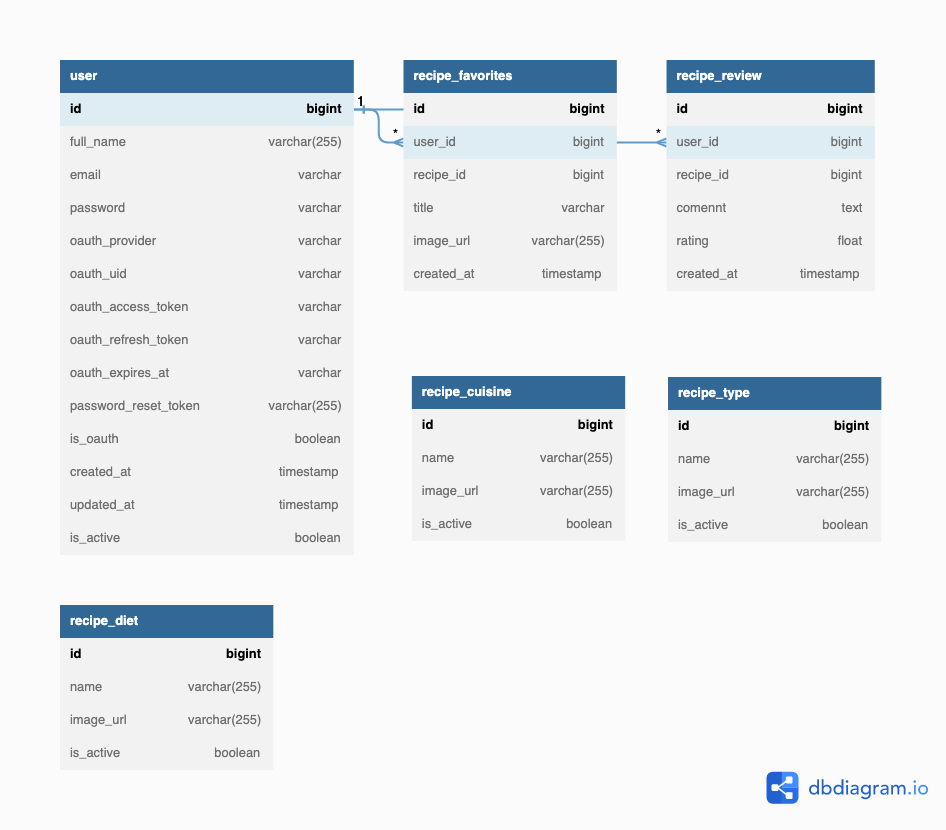
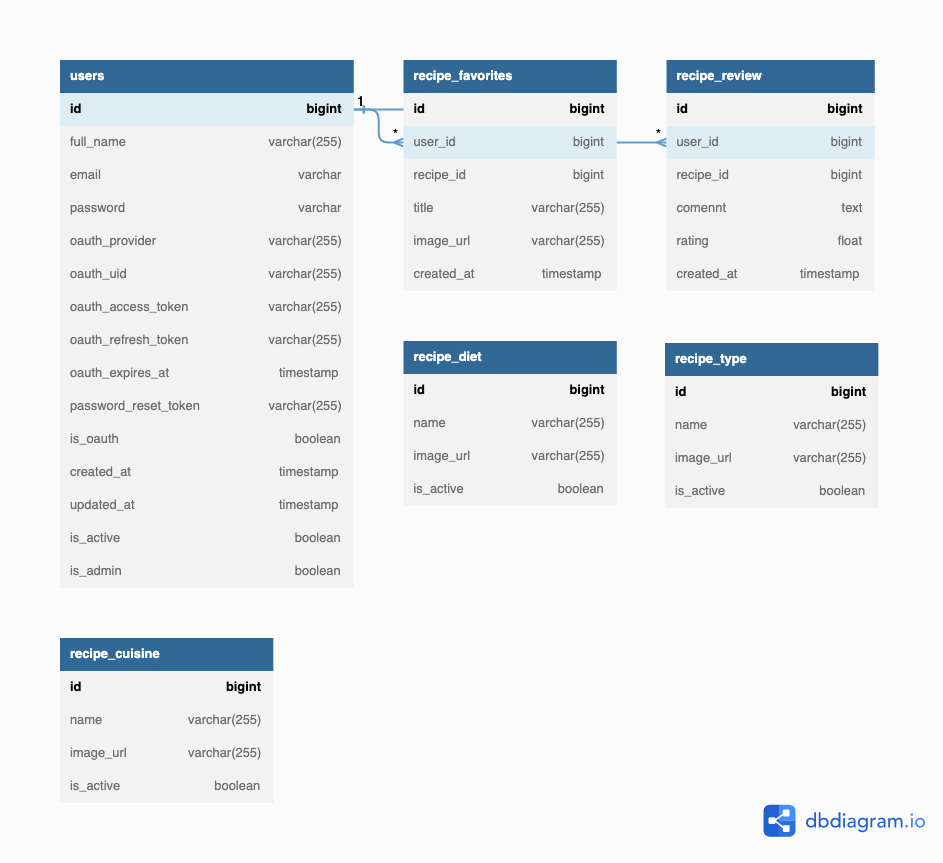
setting the application

diff --git a/app/templates/base.html b/app/templates/base.html
@@ -1,0 +1,68 @@
+<!DOCTYPE html>
+<html lang="en">
+<head>
+    <meta charset="UTF-8">
+    <meta http-equiv="X-UA-Compatible" content="IE=edge">
+    <meta name="viewport" content="width=device-width, initial-scale=1.0">
+    <link rel="apple-touch-icon" sizes="152x152" href="../static/images/apple-touch-icon.png">
+    <link rel="icon" type="image/png" sizes="32x32" href="../static/images/favicon-32x32.png">
+    <link rel="icon" type="image/png" sizes="16x16" href="../static/images/favicon-16x16.png">
+    <link rel="manifest" href="../static/images/site.webmanifest">
+    <link rel="mask-icon" href="../static/images/safari-pinned-tab.svg" color="#e99d19">
+    <meta name="msapplication-TileColor" content="#e99d19">
+    <meta name="theme-color" content="#ffffff">
+ 
+<meta charset="UTF-8">
+<title>{% block title %} {% endblock %} - Quick Recipe</title>
+    
+    <style>
+        h2 {
+            width: 100%;
+        }
+
+        .title {
+            margin: 5px;
+            width: 100%;
+        }
+
+        .content {
+            margin: 5px;
+            width: 100%;
+            display: flex;
+            flex-direction: row;
+            flex-wrap: wrap;
+        }
+
+        .post {
+            flex: 20%;
+            padding: 10px;
+            margin: 5px;
+            background-color: #f3f3f3;
+            inline-size: 100%;
+        }
+
+        .title a {
+            color: #00a36f;
+            text-decoration: none;
+        }
+
+        nav a {
+            color: #d64161;
+            font-size: 3em;
+            margin-left: 50px;
+            text-decoration: none;
+        }
+
+    </style>
+</head>
+<body>
+    <nav>
+        <a href="{{ url_for('main.index') }}">Home </a>
+        
+    </nav>
+    <hr>
+    <div class="content">
+        {% block content %} {% endblock %}
+    </div>
+</body>
+</html>

diff --git a/app/templates/index.html b/app/templates/index.html
@@ -1,0 +1,9 @@
+{% extends 'base.html' %}
+
+{% block content %}
+    <span class="title"><h1>{% block title %} Home {% endblock %}</h1></span>
+    <div class="content">
+        <img alt="" src="../static/images/quick-recipe-logo.png">
+        <h2>This is the main Flask blueprint</h2>
+    </div>
+{% endblock %}

diff --git a/app/templates/auth/register.html b/app/templates/auth/register.html
@@ -1,0 +1,1 @@
+<h1>Register</h1>

diff --git a/app/templates/auth/login.html b/app/templates/auth/login.html
@@ -1,0 +1,1 @@
+<h1>Login</h1>

diff --git a/app/models/users.py b/app/models/users.py
@@ -1,0 +1,36 @@
+from app.extensions import db,bcrypt,func
+
+
+def hash_function(value):
+      return bcrypt.generate_password_hash(value).decode("utf8")
+
+def hash_function_check(old_password_hash,new_password_hash):
+      return bcrypt.check_password_hash(old_password_hash, new_password_hash)
+
+
+class User(db.Model):
+    """User Model"""
+
+    __tablename__ = "users"
+
+    id = db.Column(db.Integer, primary_key = True, autoincrement=True)
+    full_name = db.Column(db.String(255), nullable = False)
+    email = db.Column(db.String(50), unique = True, nullable = False)
+    password = db.Column(db.Text, nullable = False)
+    password_reset_token = db.Column(db.Text)
+    oauth_provider = db.Column(db.Text)
+    oauth_uid = db.Column(db.Text)
+    oauth_access_token = db.Column(db.Text)
+    oauth_refresh_token = db.Column(db.Text)
+    oauth_expires_at = db.Column(db.DateTime)
+    is_oauth = db.Column(db.Boolean,nullable = False)
+    created_at = db.Column(db.DateTime(timezone = True),server_default = func.now())
+    updated_at = db.Column(db.DateTime(timezone = True),server_default = func.now())
+    is_active = db.Column(db.Boolean, nullable = False, default = True)
+    is_admin = db.Column(db.Boolean, nullable = False, default = False)
+
+    def __repr__(self):
+        return f"<User {self.id} {self.full_name} {self.email}>"
+
+
+      

diff --git a/config.py b/config.py
@@ -1,0 +1,17 @@
+import os
+
+basedir = os.path.abspath(os.path.dirname(__file__))
+database_URI = os.environ.get('DATABASE_URL','postgresql:///quick_recipe_db')
+if database_URI.startswith("postgres://"):
+       database_URI = database_URI.replace("postgres://", "postgresql://", 1)
+
+class Config:
+    SECRET_KEY = os.environ.get('SECRET_KEY','flask&quick&recipe&secret&key')
+    SQLALCHEMY_DATABASE_URI = database_URI\
+    or 'sqlite:///' + os.path.join(basedir, 'app.db')
+    SQLALCHEMY_TRACK_MODIFICATIONS = False
+    SQLALCHEMY_ECHO=True
+    DEBUG_TB_INTERCEPT_REDIRECT=False
+    TESTING=True
+    DEBUG_TB_HOSTS=['dont-show-debug-toolbar']
+    #WTF_CSRF_ENABLED = False

diff --git a/app/__init__.py b/app/__init__.py
@@ -1,0 +1,24 @@
+from app.extensions import Flask, db,DebugToolbarExtension
+from config import Config
+
+def create_app(config_class=Config):
+    app = Flask(__name__)
+    app.config.from_object(config_class)
+    DebugToolbarExtension(app)
+    # Initialize Flask extensions here
+    db.init_app(app)
+
+
+    # Register blueprints here
+    from app.main import bp as main_bp
+    app.register_blueprint(main_bp)
+
+    from app.auth import bp as auth_bp
+    app.register_blueprint(auth_bp, url_prefix='/auth')
+    
+
+    @app.route('/test/')
+    def test_page():
+        return '<h1>Testing the Flask Application Factory Pattern</h1>'
+
+    return app

diff --git a/app/forms/auth/register.py b/app/forms/auth/register.py
@@ -1,0 +1,9 @@
+from app.extensions import FlaskForm,EmailField,Length,PasswordField,InputRequired,StringField
+
+class RegisterForm(FlaskForm):
+    """Form for user registration."""
+
+    full_name = StringField("full Name", validators=[InputRequired()])
+    email = EmailField("Email", validators=[InputRequired(), Length(max=50, message='The email must not be longer than 50 characters.')])
+    password = PasswordField("Password", validators=[InputRequired()])
+    password_confirm = PasswordField("Confirm Password", validators=[InputRequired()])

diff --git a/seed.py b/seed.py
@@ -1,0 +1,19 @@
+from app.extensions import db
+from app.models.users import User
+from app import create_app
+
+app = create_app()
+
+with app.app_context():
+        db.drop_all()
+        db.create_all()
+
+        User.query.delete()
+
+        # Add user admin
+        user_admin = User(full_name='administrator', email='quickrecipe@ymail.com', password="khvdhvkhvevhi", is_oauth=False, is_admin=True)
+       
+        db.session.add_all([user_admin])
+        db.session.commit()
+
+        

diff --git a/app/extensions.py b/app/extensions.py
@@ -1,0 +1,12 @@
+from flask import Flask, render_template,redirect,flash,url_for,abort,request,session
+from flask_sqlalchemy import SQLAlchemy
+from flask_bcrypt import Bcrypt
+from flask_debugtoolbar import DebugToolbarExtension
+from sqlalchemy.sql import func
+from flask_wtf import FlaskForm
+from wtforms import StringField,PasswordField,EmailField,TextAreaField,BooleanField
+from wtforms.validators import InputRequired,Length
+import datetime
+
+db = SQLAlchemy()
+bcrypt = Bcrypt()

diff --git a/app/auth/routes.py b/app/auth/routes.py
@@ -1,0 +1,13 @@
+from app.extensions import render_template,redirect,flash,url_for,abort,request,session
+from app.auth import bp
+from app.forms.auth.login import LoginForm
+from app.forms.auth.register import RegisterForm
+
+@bp.route('/login', methods=['GET','POST'])
+def login():
+    return render_template('auth/login.html')
+
+
+@bp.route('/register', methods=['GET','POST'])
+def register():
+    return render_template('auth/register.html')

diff --git a/app/forms/auth/login.py b/app/forms/auth/login.py
@@ -1,0 +1,7 @@
+from app.extensions import FlaskForm,EmailField,Length,PasswordField,InputRequired
+
+class LoginForm(FlaskForm):
+    """Form for user authentication."""
+    email = EmailField("Email", validators=[InputRequired(), Length(max=50, message='The email must not be longer than 50 characters.')])
+    password = PasswordField("Password", validators=[InputRequired()])
+   
